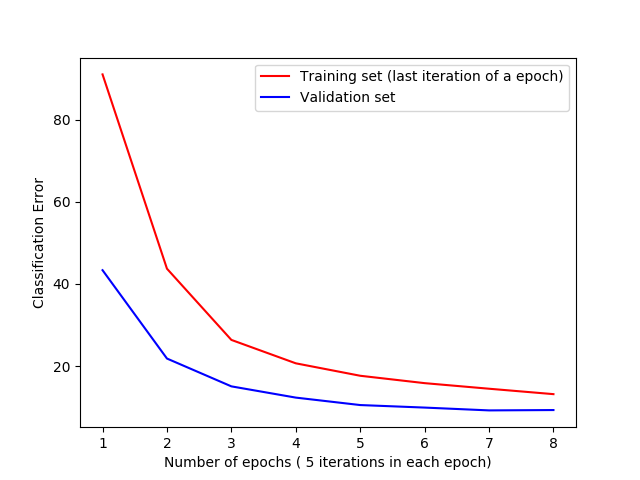
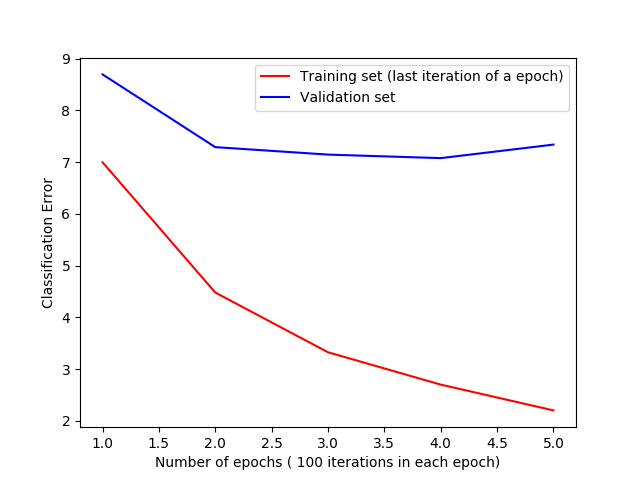
update

diff --git a/assignment_2/code/mlp.py b/assignment_2/code/mlp.py
@@ -28,7 +28,7 @@ class mlp:
             targets = rand[1]
             error_validation.append(0)
             error_training.append(0)
-            iterations = 5
+            iterations = 100
             #-----------------------------------------------------------------------------------
             #training, one iteration through the input data set
             for i in range(iterations):
@@ -163,4 +163,4 @@ class mlp:
         print("")
         print("x: Correct classes")
         print("y: Classified classes")
-        print("Percentage of correct classes:")
+        print("Percentage of correct classes:", str(percetage_correct_classes(confusion_matrix)) + " %")

diff --git a/assignment_2/code/operations.py b/assignment_2/code/operations.py
@@ -88,3 +88,15 @@ def index_confusion_matrix(vec):
         if vec[i] ==1:
             return i
     return 0
+#--------------------------------------------------------------
+# percetage of correct classes
+def percetage_correct_classes(confusion_matrix):
+    correct_classes = len(confusion_matrix)
+    for cl in range(len(confusion_matrix)):
+        sum = 0
+        for index in range(len(confusion_matrix)):
+            if index != cl:
+                sum+= confusion_matrix[cl][index]
+        if sum !=0:
+            correct_classes-=1
+    return (correct_classes/len(confusion_matrix)*100) if correct_classes >0 else 0
